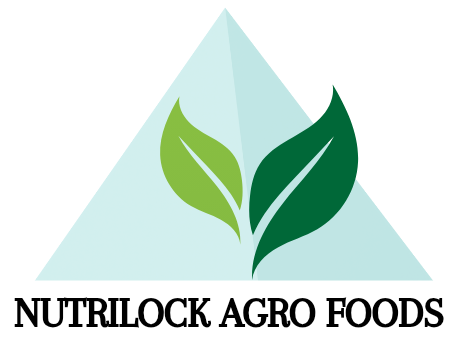
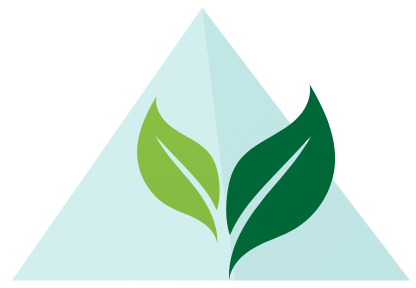
completed Cart UI

diff --git a/src/Cart.js b/src/Cart.js
@@ -1,0 +1,92 @@
+import React from "react";
+import img5 from "./peanut butter.png";
+import {
+  FaIndianRupeeSign,
+  FaMinus,
+  FaPlus,
+  FaWhatsapp,
+} from "react-icons/fa6";
+import { BiSolidShoppingBags } from "react-icons/bi";
+
+function Cart({ count, setcount, setopen_cart }) {
+  return (
+    <div className="bg-black z-50 flex flex-col justify-center items-center fixed inset-0 bg-opacity-70">
+      <div className="p-7 bg-white mx-7 sm:mx-0 sm:w-4/12">
+        <div className="flex items-start justify-between">
+          <div className="flex items-center space-x-2">
+            <BiSolidShoppingBags className="text-[#004527] text-2xl sm:text-4xl" />
+            <div>
+              <p className="text-[#004527] text-xl font-bold">Your Cart</p>
+              <p className="text-yellow-500 hidden sm:block">
+                You're one step closer to better nutrition.
+              </p>
+            </div>
+          </div>
+          <button
+            onClick={() => {
+              setopen_cart(false);
+            }}
+            className="font-semibold text-red-500"
+          >
+            Close
+          </button>
+        </div>
+
+        <div className="border p-6 my-6 border-gray-300 rounded-lg">
+          <div className="sm:flex items-center sm:space-x-5">
+            <div className="flex justify-center">
+              <img src={img5} className="h-32" />
+            </div>
+            <div className="">
+              <p className="text-[#004527] my-3 sm:my-0 font-bold">
+                Nutrilock Banana Peanut Instant Shake
+              </p>
+              <div className="flex sm:block items-center space-x-2 sm:space-x-0">
+                <div className="flex items-center">
+                  <FaIndianRupeeSign size={20} />
+                  <p className="font-bold text-2xl">50/-</p>
+                </div>
+                <div className="flex px-3 sm:mt-4 py-1 border border-gray-400 rounded-full items-center w-32 justify-between">
+                  <button
+                    onClick={() => {
+                      setcount(count - 1);
+                    }}
+                  >
+                    <FaMinus />
+                  </button>
+                  <p className="font-bold text-lg">{count}</p>
+                  <button
+                    onClick={() => {
+                      setcount(count + 1);
+                    }}
+                  >
+                    <FaPlus />
+                  </button>
+                </div>
+              </div>
+            </div>
+          </div>
+
+          <hr className="border-gray-300 my-4" />
+          <div className="flex items-center font-semibold justify-between">
+            <p className="text-lg">Total:</p>
+            <div className="flex items-center">
+              <FaIndianRupeeSign />
+              <p className="text-lg">{count * 50}/-</p>
+            </div>
+          </div>
+        </div>
+        <div className="sm:flex justify-end">
+          <button className="bg-yellow-500 w-full py-1.5 rounded-full shadow text-lg font-semibold text-[#004527]">
+            <div className="flex items-center justify-center space-x-1">
+              <FaWhatsapp size={20} />
+              <p>Buy on Whatsapp</p>
+            </div>
+          </button>
+        </div>
+      </div>
+    </div>
+  );
+}
+
+export default Cart;

diff --git a/src/DefaultLandingPage.js b/src/DefaultLandingPage.js
@@ -1,4 +1,4 @@
-import React from "react";
+import React, { useState } from "react";
 import Navbar from "./Navbar";
 import { FaArrowRightLong, FaCubesStacked } from "react-icons/fa6";
 import { AiOutlineShoppingCart } from "react-icons/ai";
@@ -9,13 +9,28 @@ import img5 from "./peanut butter.png";
 import { BsFillLightningChargeFill } from "react-icons/bs";
 import { BiRightArrowAlt } from "react-icons/bi";
 import { TbHeartCheck, TbTestPipeOff } from "react-icons/tb";
+import Cart from "./Cart";
 
 function DefaultLandingPage() {
+  const [count, setcount] = useState(0);
+  const [open_cart, setopen_cart] = useState(false);
+
+  const handleWhatsApp = () => {
+    const message =
+      "Hi, I am a retailer/wholesaler and would like to know more about your products, pricing, distribution opportunities, and how I can sell Nutrilock products.";
+
+    const whatsappUrl = `https://wa.me/919274027745?text=${encodeURIComponent(
+      message,
+    )}`;
+
+    window.open(whatsappUrl, "_blank");
+  };
+
   return (
     <div className="min-h-screen overflow-x-hidden">
-      <Navbar />
+      <Navbar count={count} setcount={setcount} setopen_cart={setopen_cart} />
       <div className="">
-        <div className="bg-gradient-to-r mix-blend-multiply flex items-center justify-center sm:space-x-28 from-[#d7ffde] to-white h-[400px] sm:h-[500px] md:h-screen">
+        <div className="bg-gradient-to-r mix-blend-multiply flex items-center justify-center sm:space-x-48 from-[#d7ffde] to-white h-[400px] sm:h-[500px] md:h-screen">
           <div className="p-7 text-center sm:text-left sm:p-0 sm:m-10">
             <motion.p
               initial={{ y: -100, opacity: 0 }}
@@ -42,18 +57,6 @@ function DefaultLandingPage() {
               Enjoy healthy goodness in every sip.
             </motion.p>
             <div className="flex items-center  mt-5 space-x-5">
-              <motion.button
-                initial={{ x: -100, opacity: 0 }}
-                animate={{ x: 0, opacity: 1 }}
-                transition={{ duration: 0.8, ease: "easeOut" }}
-                whileHover={{ scale: 1.05 }}
-                whileTap={{ scale: 0.95 }}
-                className="border-2 border-yellow-500 px-3 py-1.5 sm:px-6 sm:py-4 font-semibold rounded-full shadow-xl bg-yellow-500 text-white"
-              >
-                <div className="flex items-center space-x-2">
-                  <p className="">Buy Now</p> <AiOutlineShoppingCart />
-                </div>
-              </motion.button>
               <motion.button
                 initial={{ x: 100, opacity: 0 }}
                 animate={{ x: 0, opacity: 1 }}
@@ -116,6 +119,25 @@ function DefaultLandingPage() {
                 className="h-[140px] sm:h-[180px] -ml-10 mt-20 object-contain z-0"
               />
             </div>
+            <div className="flex justify-center relative -mt-6 z-50">
+              <motion.button
+                onClick={() => {
+                  setcount(count + 1);
+                }}
+                initial={{ scale: 0.5, opacity: 0 }}
+                animate={{ scale: 1, opacity: 1 }}
+                transition={{
+                  duration: 0.5,
+                  delay: 1.8,
+                  ease: "easeOut",
+                }}
+                className="border-2 border-yellow-500 px-3 py-1.5 sm:px-5 sm:py-3 font-semibold rounded-full shadow-xl bg-yellow-500 text-white"
+              >
+                <div className="flex items-center space-x-2">
+                  <p className="">Buy Now</p> <AiOutlineShoppingCart />
+                </div>
+              </motion.button>
+            </div>
           </div>
         </div>
 
@@ -144,22 +166,29 @@ function DefaultLandingPage() {
               className="absolute inset-0 flex items-center justify-center z-30"
             >
               <div className="relative bg-[#ffffdc] border border-[#e7dccf] rounded-[40px] px-10 sm:px-24 pt-6 sm:pt-10 shadow-sm rotate-[-3deg]">
-                <div className="absolute -right-6 top-6 sm:-right-10 sm:top-8 rotate-[6deg]">
-                  <div className="bg-[#004527] px-3 py-1.5 sm:px-6 sm:py-4 text-white rounded-xl sm:rounded-3xl shadow-xl">
-                    <p className="text-xs sm:text-sm tracking-wide opacity-80">
-                      NEW LAUNCH
-                    </p>
-                    <p className="font-semibold sm:font-bold sm:text-2xl">
-                      Banana × Peanut
-                    </p>
-                  </div>
-                </div>
-
                 <img
                   src={img5}
                   alt="Product"
                   className="h-80 sm:h-[500px] object-contain"
                 />
+                <div className="absolute -right-6 top-6 sm:-right-10 sm:top-8 rotate-[6deg]">
+                  <div className="flex justify-center sm:hidden  relative -mt-6 z-50">
+                    <motion.button
+                      initial={{ scale: 0.5, opacity: 0 }}
+                      animate={{ scale: 1, opacity: 1 }}
+                      transition={{
+                        duration: 0.5,
+                        delay: 0.8,
+                        ease: "easeOut",
+                      }}
+                      className="border-2 border-yellow-500 px-3 py-1.5 sm:px-5 sm:py-3 font-semibold rounded-full shadow-xl bg-yellow-500 text-white"
+                    >
+                      <div className="flex items-center space-x-2">
+                        <p className="">Buy Now</p> <AiOutlineShoppingCart />
+                      </div>
+                    </motion.button>
+                  </div>
+                </div>
               </div>
             </motion.div>
 
@@ -446,7 +475,10 @@ function DefaultLandingPage() {
               let's talk. We respond within 24 hours.
             </p>
 
-            <button className="border-2 sm:text-lg border-yellow-500 px-3 sm:px-6 py-1.5 sm:py-4 font-semibold rounded-full shadow-xl bg-yellow-500">
+            <button
+              onClick={handleWhatsApp}
+              className="border-2 sm:text-lg border-yellow-500 px-3 sm:px-6 py-1.5 sm:py-4 font-semibold rounded-full shadow-xl bg-yellow-500"
+            >
               <div className="flex items-center space-x-2">
                 <p>Get in Touch</p>
                 <BiRightArrowAlt size={30} />
@@ -455,6 +487,9 @@ function DefaultLandingPage() {
           </div>
         </div>
       </div>
+      {open_cart && (
+        <Cart count={count} setcount={setcount} setopen_cart={setopen_cart} />
+      )}
       <Footer />
     </div>
   );

diff --git a/src/Navbar.js b/src/Navbar.js
@@ -2,8 +2,10 @@ import React, { useState, useEffect } from "react";
 import img1 from "./logo.png";
 import { FaBars, FaUser } from "react-icons/fa";
 import { useLocation, useNavigate } from "react-router-dom";
+import { CgShoppingCart } from "react-icons/cg";
+import Cart from "./Cart";
 
-function Navbar() {
+function Navbar({ count, setcount, setopen_cart }) {
   const currentLocation = useLocation();
   const navigation = useNavigate();
   const [isScrolled, setIsScrolled] = useState(false);
@@ -31,7 +33,7 @@ ${
     : "bg-transparent py-4"
 }`}
     >
-      <img src={img1} className="h-8 sm:h-16 w-auto" alt="logo" />
+      <img src={img1} className="h-8 sm:h-12 w-auto" alt="logo" />
 
       <div className="hidden sm:flex items-center space-x-5 text-xl font-semibold">
         <button
@@ -85,11 +87,19 @@ ${
         </div>
       )}
 
-      <div className="flex items-center space-x-2">
-        <FaUser
-          size={30}
-          className="border border-[#03256c] text-[#333333] p-1 rounded-full"
-        />
+      <div className="flex relative h-14 items-center space-x-3 sm:space-x-2">
+        <button
+          onClick={() => {
+            setopen_cart(true);
+          }}
+          className="relative"
+        >
+          <p className="absolute -top-2 -right-2 bg-red-500 text-xs rounded-full min-w-[20px] h-5 flex items-center justify-center text-white font-bold">
+            {count}
+          </p>
+
+          <CgShoppingCart className="border text-[32px] sm:text-4xl border-[#03256c] text-[#333333] p-1 rounded-full" />
+        </button>
         <button
           onClick={() => {
             setopen_navbar(!open_navbar);

diff --git a/src/ContactUs.js b/src/ContactUs.js
@@ -8,7 +8,7 @@ function ContactUs() {
   return (
     <div className="w-full min-h-screen h-full">
       <Navbar />
-      <div className="sm:flex my-20 sm:my-40 mx-10 sm:mx-28 items-center justify-center sm:space-x-20">
+      <div className="sm:flex my-20 sm:my-40 mx-7 sm:mx-28 items-center justify-center sm:space-x-20">
         <div>
           <div className="mb-8 sm:mb-14">
             <p className="text-lg mb-1 text-[#7a5137] ">CONTACT US</p>
@@ -39,8 +39,12 @@ function ContactUs() {
             <div className="bg-[#fff2eb] mt-5 sm:mt-0 hover:bg-white hover:shadow-xl p-5 border rounded-xl border-gray-300">
               <p className="mb-1 text-[#7a5137] ">EMAIL</p>
               <div className="flex items-center space-x-1">
-                <MdEmail size={30} className="bg-yellow-500 p-1.5 rounded" />
-                <p className="font-bold text-[#150500] text-lg sm:text-xl">
+                <MdEmail
+                  size={30}
+                  className="bg-yellow-500 p-1.5 rounded flex-shrink-0"
+                />
+
+                <p className="font-bold text-[#150500] text-lg sm:text-xl break-all">
                   [email redacted]
                 </p>
               </div>

diff --git a/src/AboutUs.js b/src/AboutUs.js
@@ -11,8 +11,8 @@ function AboutUs() {
   return (
     <div className="w-full">
       <Navbar />
-      <div className="my-20 sm:my-32">
-        <div className="mx-7 sm:mx-10 mb-14">
+      <div className="my-20 sm:my-40">
+        <div className="mx-7 sm:mx-10 mb-28">
           <p className="text-lg mb-1  text-[#7a5137] ">
             ABOUT NUTRILOCK AGRO FOODS
           </p>